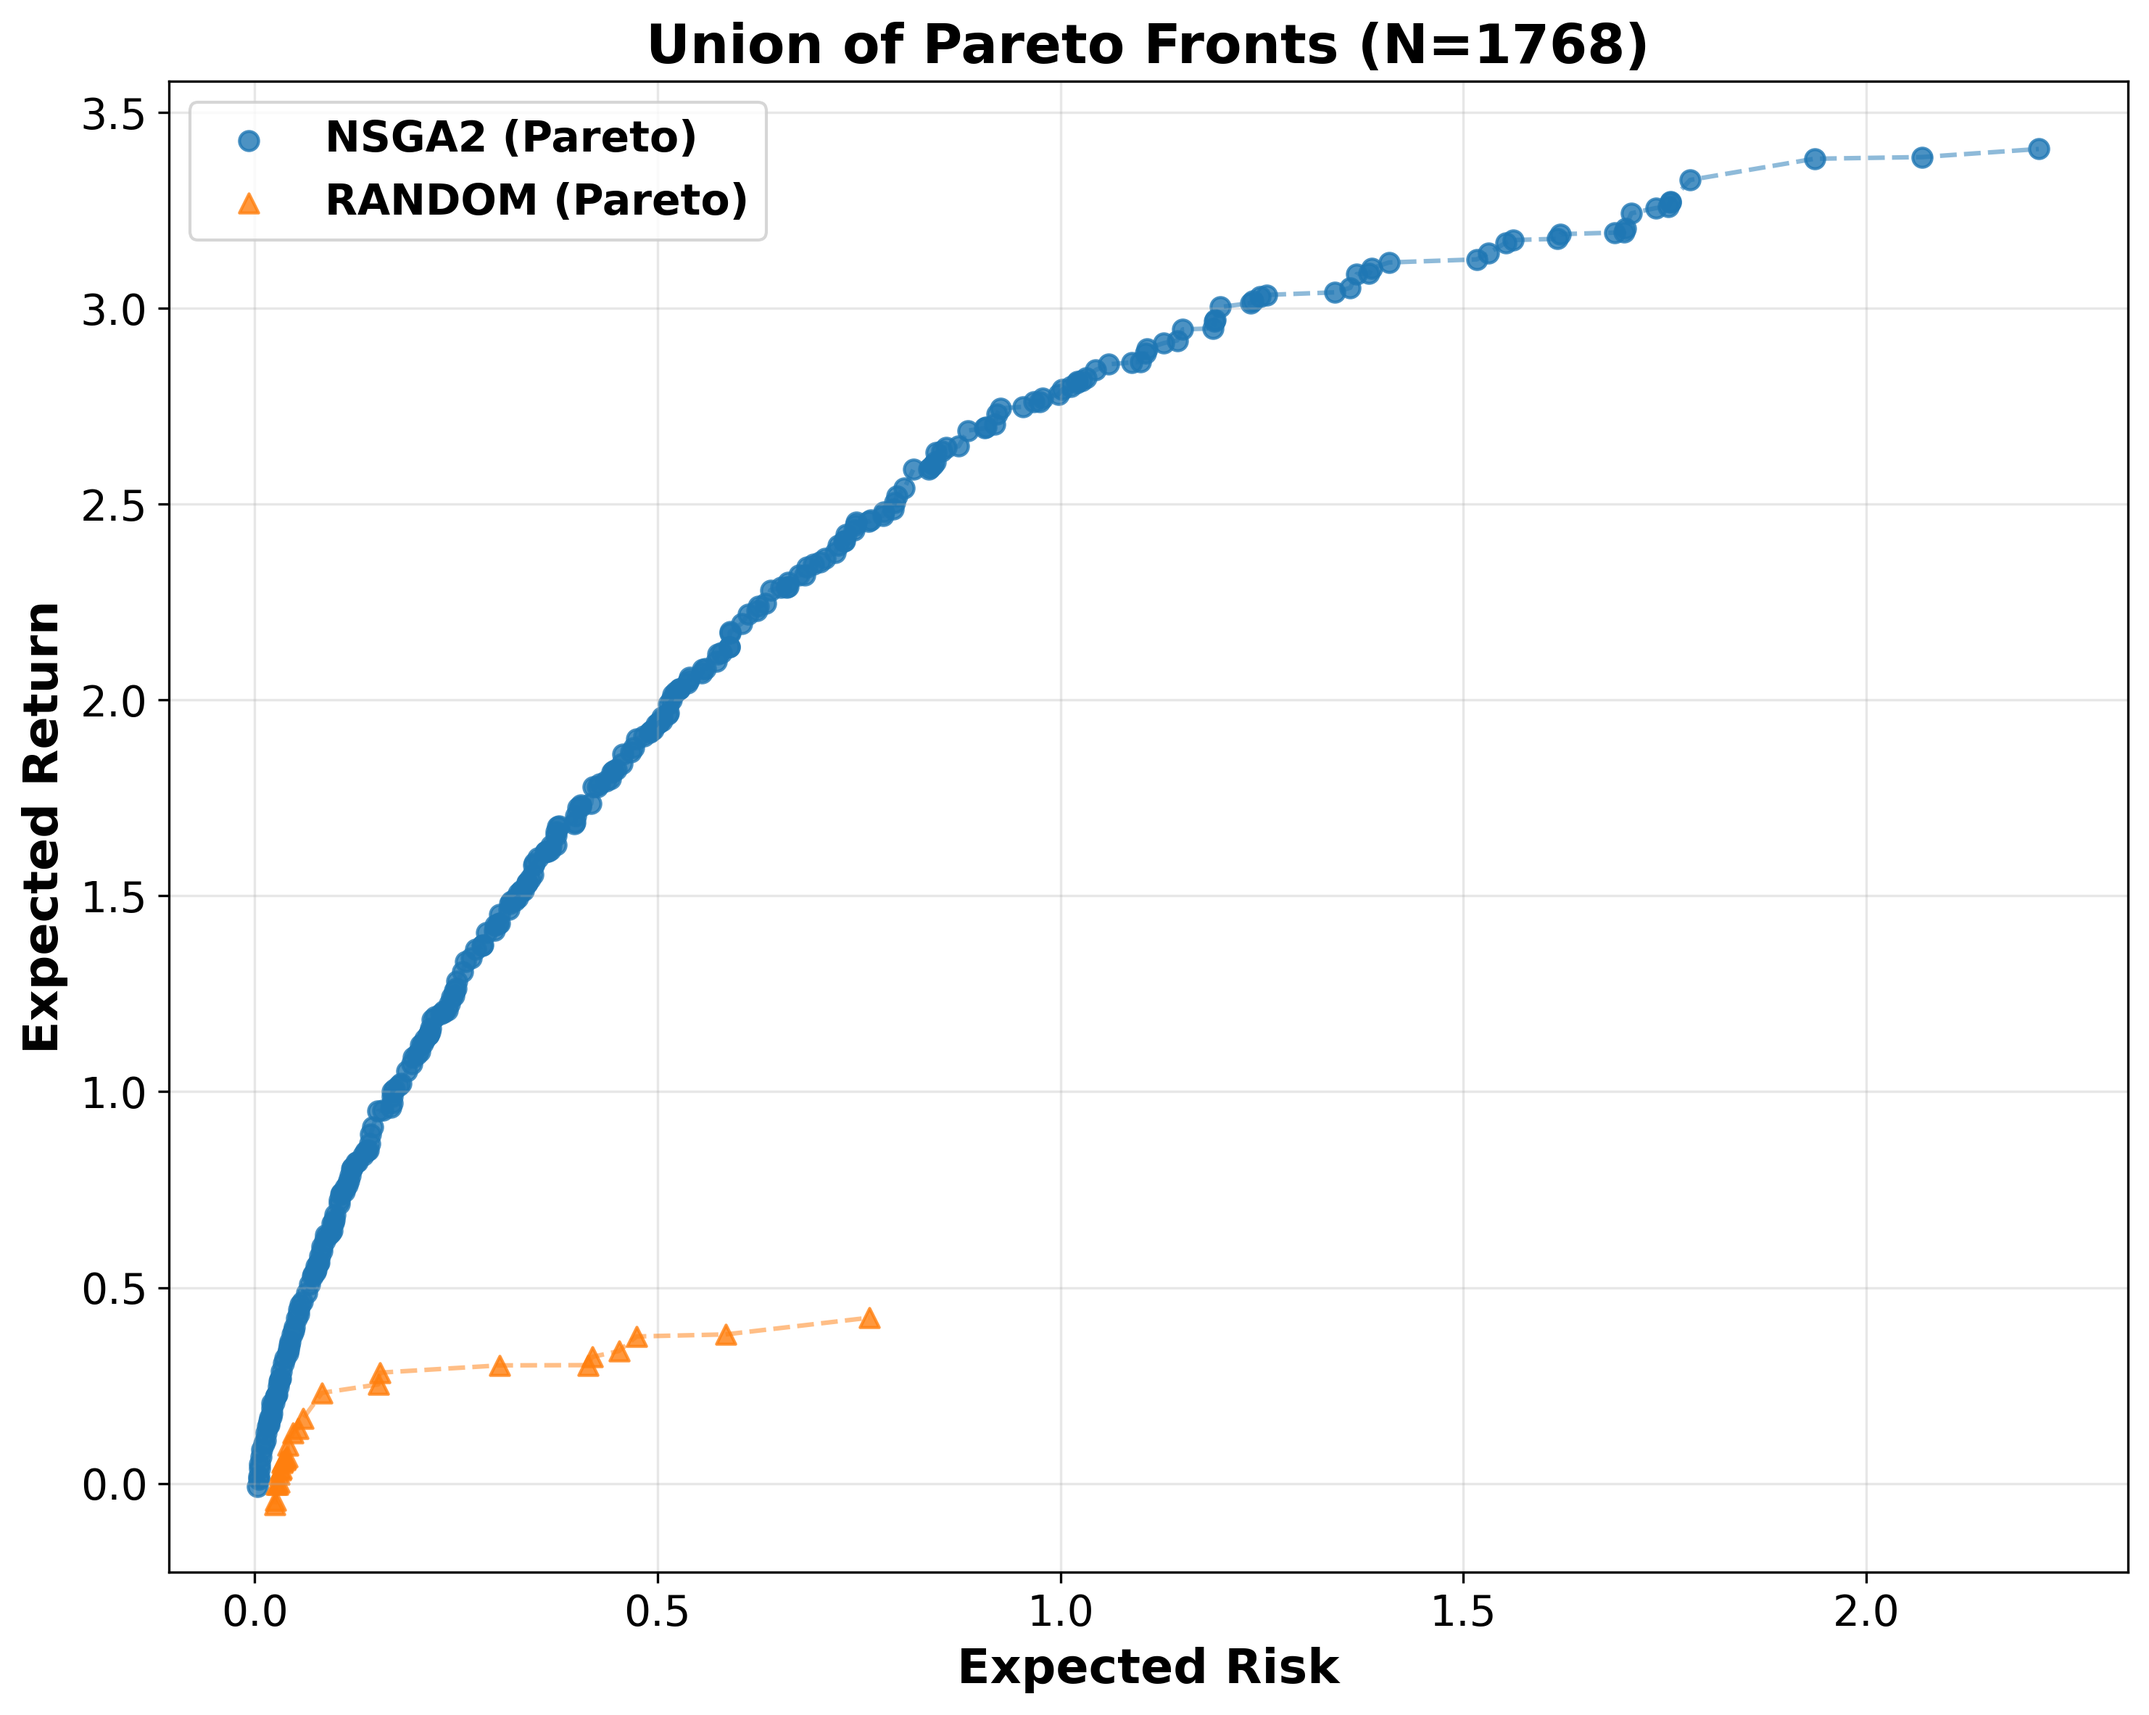
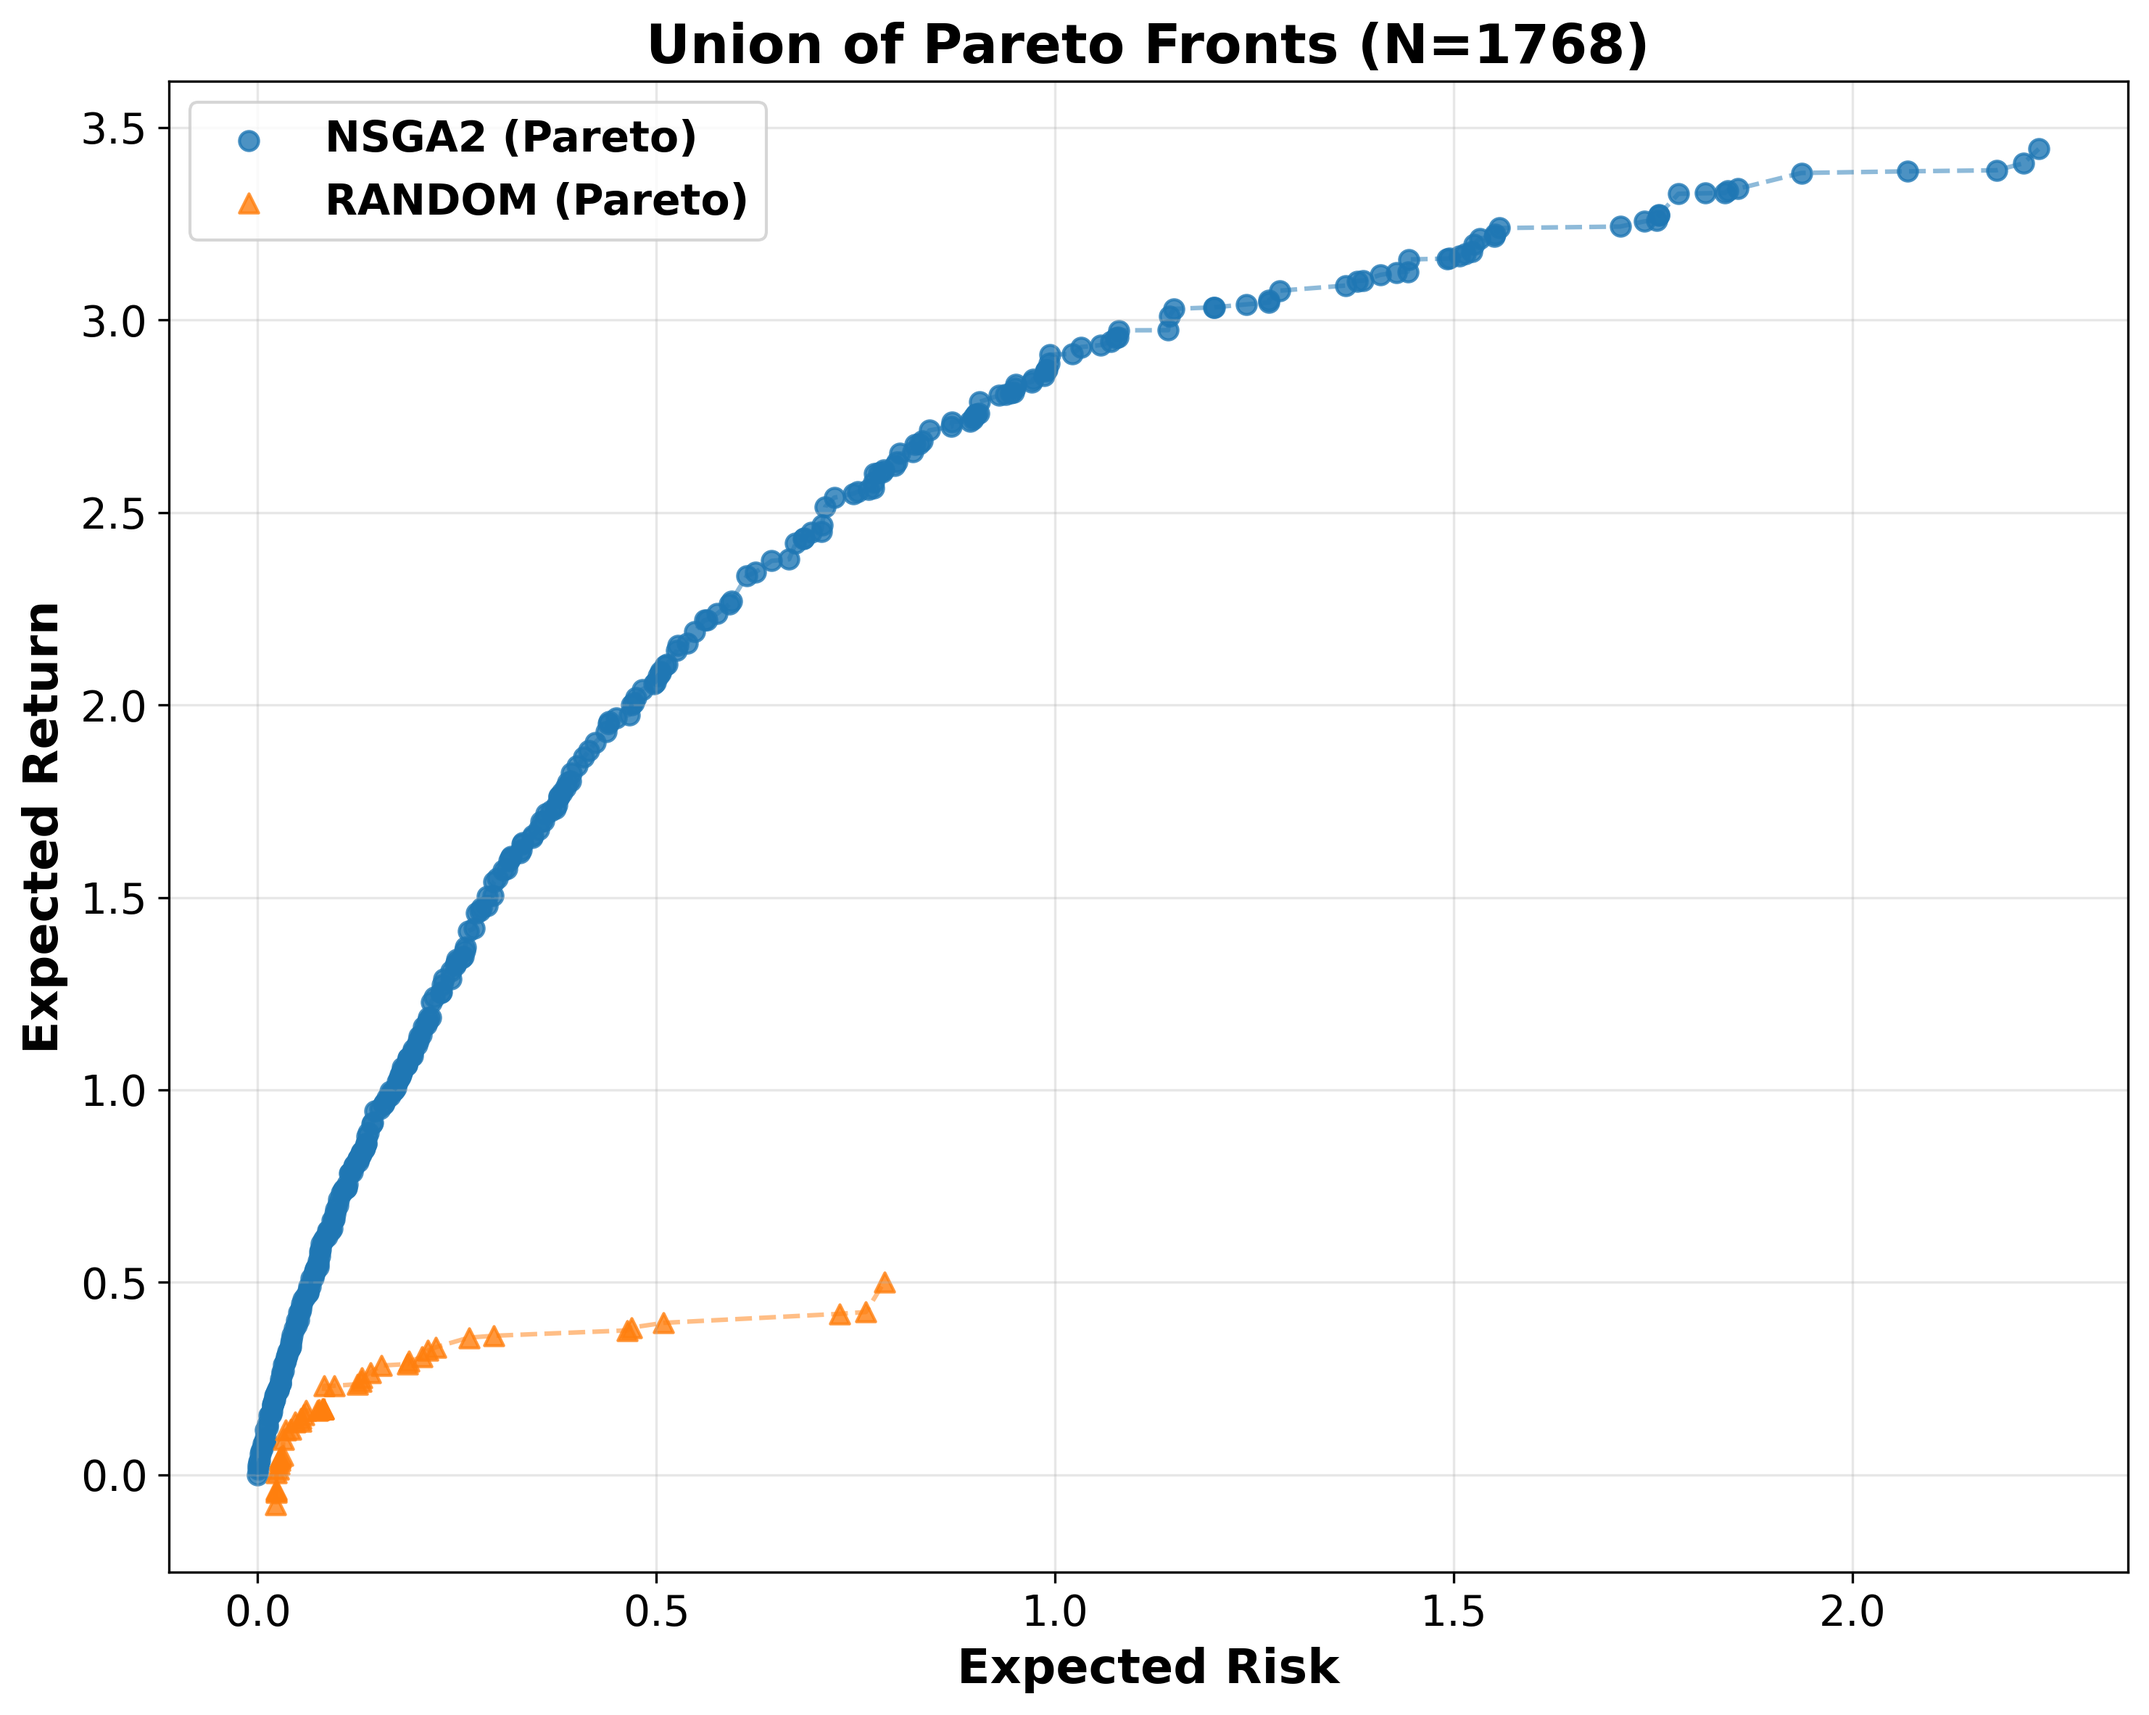
new changes

diff --git a/report/out/REPORT.md b/report/out/REPORT.md
@@ -75,7 +75,7 @@ This report summarizes the performance of multi-objective optimization methods.
 
 - **Problem Sizes (N):** [884, 1768, 2653]
 - **Methods:** ['NSGA2', 'RANDOM']
-- **Seeds:** [0, 1, 2, 3]
+- **Seeds:** [0, 1, 2, 3, 4, 5, 6, 7, 8, 9, 10, 11, 12, 13, 14, 15, 16, 17, 18, 19, 20, 21, 22, 23, 24, 25, 26, 27, 28, 29]
 - **Total Runs:** 180
 
 **Objective Interpretation:**
@@ -96,25 +96,25 @@ Metrics are aggregated across seeds (mean ± 95% CI).
 
 | N | NSGA2 | RANDOM |
 |---|---|---|
-| 884 | 2.006 (1.989 - 2.023) | 0.391 (0.351 - 0.430) |
-| 1768 | 6.218 (6.087 - 6.349) | 0.884 (0.848 - 0.920) |
-| 2653 | 12.600 (12.219 - 12.981) | 1.410 (1.364 - 1.456) |
+| 884 | 2.284 (2.277 - 2.291) | 0.431 (0.421 - 0.441) |
+| 1768 | 6.318 (6.282 - 6.354) | 0.879 (0.855 - 0.903) |
+| 2653 | 12.105 (11.983 - 12.226) | 1.411 (1.378 - 1.445) |
 
 ### IGD+ (↓) mean ± 95% CI
 
 | N | NSGA2 | RANDOM |
 |---|---|---|
-| 884 | 0.005 (0.002 - 0.008) | 0.800 (0.772 - 0.827) |
-| 1768 | 0.020 (0.009 - 0.032) | 1.338 (1.327 - 1.348) |
-| 2653 | 0.019 (0.008 - 0.031) | 1.512 (1.495 - 1.528) |
+| 884 | 0.012 (0.011 - 0.013) | 0.847 (0.840 - 0.853) |
+| 1768 | 0.038 (0.033 - 0.042) | 1.238 (1.231 - 1.244) |
+| 2653 | 0.067 (0.059 - 0.074) | 1.543 (1.538 - 1.549) |
 
 ### |ND| (↑) mean ± 95% CI
 
 | N | NSGA2 | RANDOM |
 |---|---|---|
-| 884 | 235 (231 - 239) | 25 (21 - 29) |
-| 1768 | 251 (245 - 257) | 25 (21 - 29) |
-| 2653 | 262 (257 - 266) | 24 (18 - 29) |
+| 884 | 234 (233 - 236) | 26 (24 - 27) |
+| 1768 | 255 (253 - 258) | 24 (23 - 26) |
+| 2653 | 259 (256 - 262) | 24 (22 - 25) |
 
 ## 3. Combined Pareto Fronts for Different N
 
